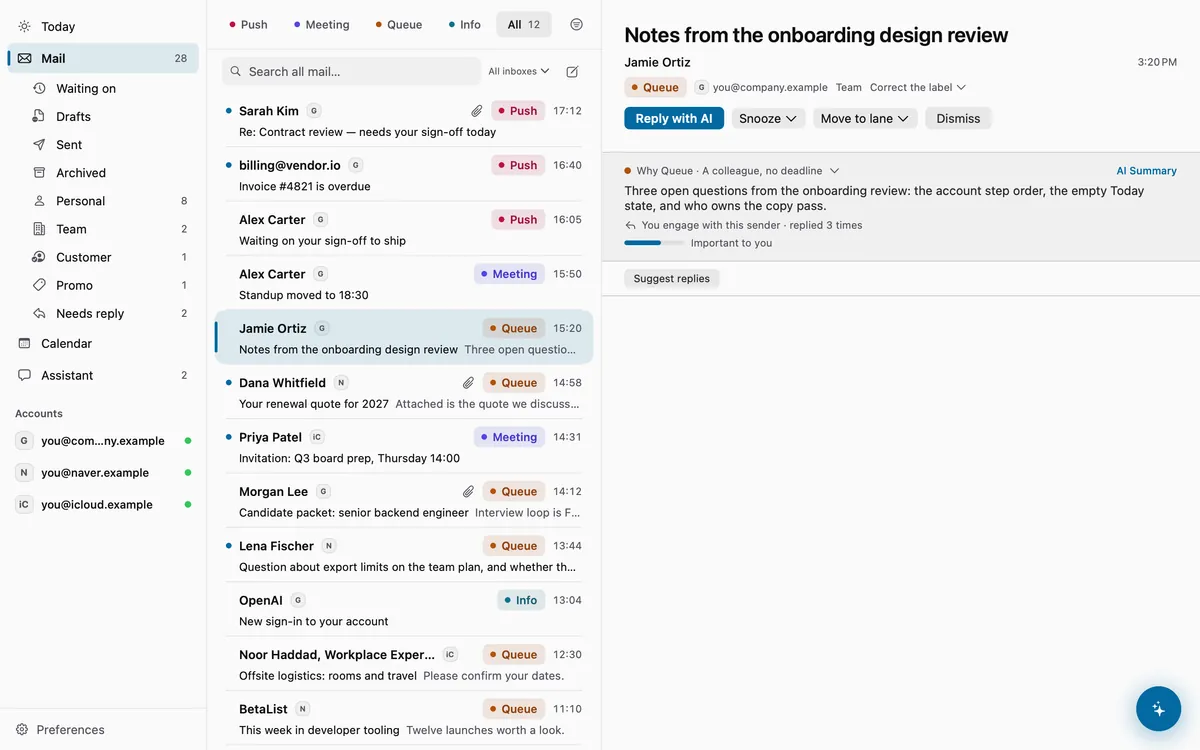
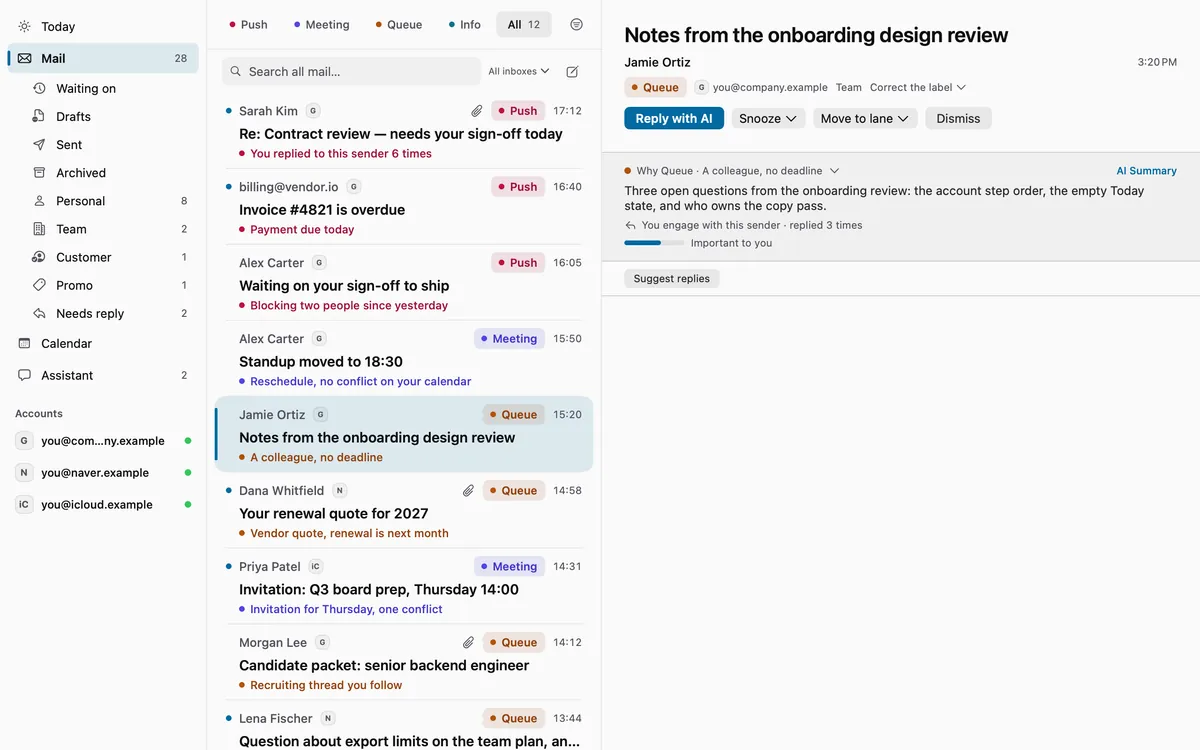
feat(website): refresh app captures to the 3-line rows, Korean phone capture, CTA/footer/blog polish (#1531)
- Re-render light + ko-light captures from current main (3-line mail rows,
  72h PUSH block); add native-resolution approvals-*-840 to the #day tile
- /ko/ phone mail capture is now Korean (mail-m-ko-light-840); make.sh writes
  -m- crops for both variants; lockstep normalizes -m- language tags
- Pipeline and banner renderer are light-only; drop 29 unreferenced dark and
  today-m captures (app-2026-10: 2,088,326 -> 1,063,392 bytes)
- Final CTA sky fades at its bottom edge; phone CTAs stack at one width
- Footer pairs link groups two by two below 1000px
- Blog index uses the shared sub-hero band and the wrap's left edge

Changed region(s): [[0.1542, 0.1227, 0.4933, 1.0], [0.925, 0.8893, 0.9867, 1.0], [0.0, 0.9507, 0.0925, 0.9813]]

diff --git a/website/landing.css b/website/landing.css
@@ -419,16 +419,25 @@ html[lang=ko] .note-q p,html[lang=ja] .note-q p,html[lang=zh] .note-q p{font-wei
 /* ── Final CTA ───────────────────────────────────── */
 .final{position:relative;text-align:center;overflow:hidden;padding:clamp(110px,14vw,180px) 0}
 .final .hero-sky{inset:0;height:100%;transform:scaleY(-1);
-  -webkit-mask-image:linear-gradient(180deg,#000 0%,#000 50%,transparent 100%);
-          mask-image:linear-gradient(180deg,#000 0%,#000 50%,transparent 100%)}
+  /* The sky is flipped, so the first stop is the section's BOTTOM edge: it
+     fades back to paper there too, instead of a hard cut against the footer
+     rule. */
+  -webkit-mask-image:linear-gradient(180deg,transparent 0%,#000 24%,#000 50%,transparent 100%);
+          mask-image:linear-gradient(180deg,transparent 0%,#000 24%,#000 50%,transparent 100%)}
 .final .wrap{position:relative;z-index:2}
 .final h2{margin-left:auto;margin-right:auto;font-size:clamp(var(--fs-32),5.2vw,var(--fs-56));max-width:15ch}
 .final .meta{margin-top:22px}
+/* Phone: the two CTAs stack at one shared width rather than two pills of
+   different lengths centred under each other. */
+@media (max-width:640px){.final .actions{flex-direction:column;align-items:stretch;max-width:360px;margin:0 auto}}
 
 /* ── Footer ──────────────────────────────────────── */
 .foot{border-top:1px solid var(--line);padding:56px 0 40px;font-size:var(--fs-14);color:var(--ink-2)}
-.foot-grid{display:grid;grid-template-columns:1fr;gap:28px}
-@media (min-width:640px){.foot-grid{grid-template-columns:repeat(2,minmax(0,1fr))}}
+.foot-grid{display:grid;grid-template-columns:repeat(2,minmax(0,1fr));gap:28px 24px}
+/* Below the 5-column desktop row the brand block takes its own full row and
+   the four link groups pair up two by two (a phone no longer scrolls one
+   long column). */
+@media (max-width:999px){.foot-grid > :first-child{grid-column:1 / -1}}
 @media (min-width:1000px){.foot-grid{grid-template-columns:minmax(0,1.6fr) repeat(4,minmax(0,1fr))}}
 .foot .brand{display:inline-flex;align-items:center;min-height:44px;min-width:44px;font-weight:700;color:var(--ink);text-decoration:none;font-size:var(--fs-16);letter-spacing:-.015em}
 .foot-note{margin:10px 0 0;max-width:30ch;line-height:1.5}

diff --git a/website/ko/index.html b/website/ko/index.html
@@ -270,7 +270,7 @@
       <div class="win">
         <div class="win-bar" aria-hidden="true"><i></i><i></i><i></i></div>
         <picture>
-        <source media="(max-width:640px)" sizes="94vw" width="840" height="1000" srcset="/media/app-2026-10/mail-m-light-840.webp 840w">
+        <source media="(max-width:640px)" sizes="94vw" width="840" height="1000" srcset="/media/app-2026-10/mail-m-ko-light-840.webp 840w">
         <img src="/media/app-2026-10/mail-ko-light-2000.webp"
              srcset="/media/app-2026-10/mail-ko-light-1200.webp 1200w, /media/app-2026-10/mail-ko-light-2000.webp 2000w"
              sizes="(min-width:1240px) 1116px, 94vw" width="2000" height="1250" loading="lazy" decoding="async"
@@ -333,7 +333,7 @@
           <div class="win-bar" aria-hidden="true"><i></i><i></i><i></i></div>
           <picture>
           <img src="/media/app-2026-10/approvals-ko-light-656.webp"
-               srcset="/media/app-2026-10/approvals-ko-light-400.webp 400w, /media/app-2026-10/approvals-ko-light-656.webp 656w"
+               srcset="/media/app-2026-10/approvals-ko-light-400.webp 400w, /media/app-2026-10/approvals-ko-light-656.webp 656w, /media/app-2026-10/approvals-ko-light-840.webp 840w"
                sizes="(min-width:1240px) 700px, (min-width:900px) 60vw, 90vw" width="656" height="609" loading="lazy" decoding="async"
                alt="Mac 어시스턴트의 승인 패널: 답장과 일정 생성 두 건이 승인과 거절 버튼과 함께 대기 중입니다."></picture>
         </div></div>

diff --git a/website/fr/index.html b/website/fr/index.html
@@ -334,7 +334,7 @@
           <div class="win-bar" aria-hidden="true"><i></i><i></i><i></i></div>
           <picture>
           <img src="/media/app-2026-10/approvals-light-656.webp"
-               srcset="/media/app-2026-10/approvals-light-400.webp 400w, /media/app-2026-10/approvals-light-656.webp 656w"
+               srcset="/media/app-2026-10/approvals-light-400.webp 400w, /media/app-2026-10/approvals-light-656.webp 656w, /media/app-2026-10/approvals-light-840.webp 840w"
                sizes="(min-width:1240px) 700px, (min-width:900px) 60vw, 90vw" width="656" height="609" loading="lazy" decoding="async"
                alt="Le panneau des approbations de l’Assistant sur Mac : deux approbations en attente, une réponse et un événement d’agenda, chacune avec Approuver et Refuser."></picture>
         </div></div>

diff --git a/website/es/index.html b/website/es/index.html
@@ -334,7 +334,7 @@
           <div class="win-bar" aria-hidden="true"><i></i><i></i><i></i></div>
           <picture>
           <img src="/media/app-2026-10/approvals-light-656.webp"
-               srcset="/media/app-2026-10/approvals-light-400.webp 400w, /media/app-2026-10/approvals-light-656.webp 656w"
+               srcset="/media/app-2026-10/approvals-light-400.webp 400w, /media/app-2026-10/approvals-light-656.webp 656w, /media/app-2026-10/approvals-light-840.webp 840w"
                sizes="(min-width:1240px) 700px, (min-width:900px) 60vw, 90vw" width="656" height="609" loading="lazy" decoding="async"
                alt="El panel de aprobaciones del asistente en Mac: dos aprobaciones pendientes, una respuesta y un evento de calendario, cada una con Aprobar y Rechazar."></picture>
         </div></div>

diff --git a/website/de/index.html b/website/de/index.html
@@ -334,7 +334,7 @@
           <div class="win-bar" aria-hidden="true"><i></i><i></i><i></i></div>
           <picture>
           <img src="/media/app-2026-10/approvals-light-656.webp"
-               srcset="/media/app-2026-10/approvals-light-400.webp 400w, /media/app-2026-10/approvals-light-656.webp 656w"
+               srcset="/media/app-2026-10/approvals-light-400.webp 400w, /media/app-2026-10/approvals-light-656.webp 656w, /media/app-2026-10/approvals-light-840.webp 840w"
                sizes="(min-width:1240px) 700px, (min-width:900px) 60vw, 90vw" width="656" height="609" loading="lazy" decoding="async"
                alt="Der Freigabebereich des Assistenten auf dem Mac: zwei offene Freigaben, eine Antwort und ein Kalendertermin, jeweils mit Freigeben und Ablehnen."></picture>
         </div></div>

diff --git a/website/ja/index.html b/website/ja/index.html
@@ -332,7 +332,7 @@
           <div class="win-bar" aria-hidden="true"><i></i><i></i><i></i></div>
           <picture>
           <img src="/media/app-2026-10/approvals-light-656.webp"
-               srcset="/media/app-2026-10/approvals-light-400.webp 400w, /media/app-2026-10/approvals-light-656.webp 656w"
+               srcset="/media/app-2026-10/approvals-light-400.webp 400w, /media/app-2026-10/approvals-light-656.webp 656w, /media/app-2026-10/approvals-light-840.webp 840w"
                sizes="(min-width:1240px) 700px, (min-width:900px) 60vw, 90vw" width="656" height="609" loading="lazy" decoding="async"
                alt="Macのアシスタントの承認パネル：返信と予定作成の2件が承認・拒否ボタン付きで待機しています。"></picture>
         </div></div>

diff --git a/website/blog/index.html b/website/blog/index.html
@@ -125,10 +125,14 @@
 </div></nav>
 
 <main id="main">
+<header class="sub-hero">
+  <div class="wrap">
+    <h1>Notes from the <span class="ser">workshop</span>.</h1>
+    <p class="lead">Engineering notes from building an email firewall in the open. House rule: a number only appears here if you can re-run it from the repo — and when one stops reproducing, it comes down and we say so.</p>
+  </div>
+</header>
 <div class="wrap">
-<div class="article">
-  <h1>Notes from the <em>workshop</em>.</h1>
-  <p class="thesis">Engineering notes from building an email firewall in the open. House rule: a number only appears here if you can re-run it from the repo — and when one stops reproducing, it comes down and we say so.</p>
+<div class="article article-index">
 
   <ul class="postlist">
     <li>

diff --git a/website/index.html b/website/index.html
@@ -334,7 +334,7 @@
           <div class="win-bar" aria-hidden="true"><i></i><i></i><i></i></div>
           <picture>
           <img src="/media/app-2026-10/approvals-light-656.webp"
-               srcset="/media/app-2026-10/approvals-light-400.webp 400w, /media/app-2026-10/approvals-light-656.webp 656w"
+               srcset="/media/app-2026-10/approvals-light-400.webp 400w, /media/app-2026-10/approvals-light-656.webp 656w, /media/app-2026-10/approvals-light-840.webp 840w"
                sizes="(min-width:1240px) 700px, (min-width:900px) 60vw, 90vw" width="656" height="609" loading="lazy" decoding="async"
                alt="The Approvals pane of the Assistant on Mac: two approvals waiting, a reply and a calendar event, each with Approve and Decline."></picture>
         </div></div>

diff --git a/website/zh/index.html b/website/zh/index.html
@@ -332,7 +332,7 @@
           <div class="win-bar" aria-hidden="true"><i></i><i></i><i></i></div>
           <picture>
           <img src="/media/app-2026-10/approvals-light-656.webp"
-               srcset="/media/app-2026-10/approvals-light-400.webp 400w, /media/app-2026-10/approvals-light-656.webp 656w"
+               srcset="/media/app-2026-10/approvals-light-400.webp 400w, /media/app-2026-10/approvals-light-656.webp 656w, /media/app-2026-10/approvals-light-840.webp 840w"
                sizes="(min-width:1240px) 700px, (min-width:900px) 60vw, 90vw" width="656" height="609" loading="lazy" decoding="async"
                alt="Mac 上助手的批准面板：两项待批准事项（一封回复和一个日历事件），各有批准和拒绝按钮。"></picture>
         </div></div>

diff --git a/website/subpage.css b/website/subpage.css
@@ -160,3 +160,10 @@ html[lang=ko] .article thead th{letter-spacing:.02em}
 .article .postlist a.pt:hover{color:var(--accent)}
 .article .postlist .meta{display:block;margin:0}
 .article .postlist p{margin:8px 0 0;font-size:var(--fs-16);line-height:1.6}
+/* Blog index: the hero is the shared .sub-hero band and the list starts on
+   the same left edge as the nav, the footer and every other subpage, instead
+   of a centred post-width column. */
+.article.article-index{margin:0;max-width:820px;padding-top:clamp(48px,6vw,72px)}
+.article-index .postlist{margin-top:0;border-top:0}
+.article-index .postlist li:first-child{padding-top:0}
+.article-index .checked{max-width:none}
